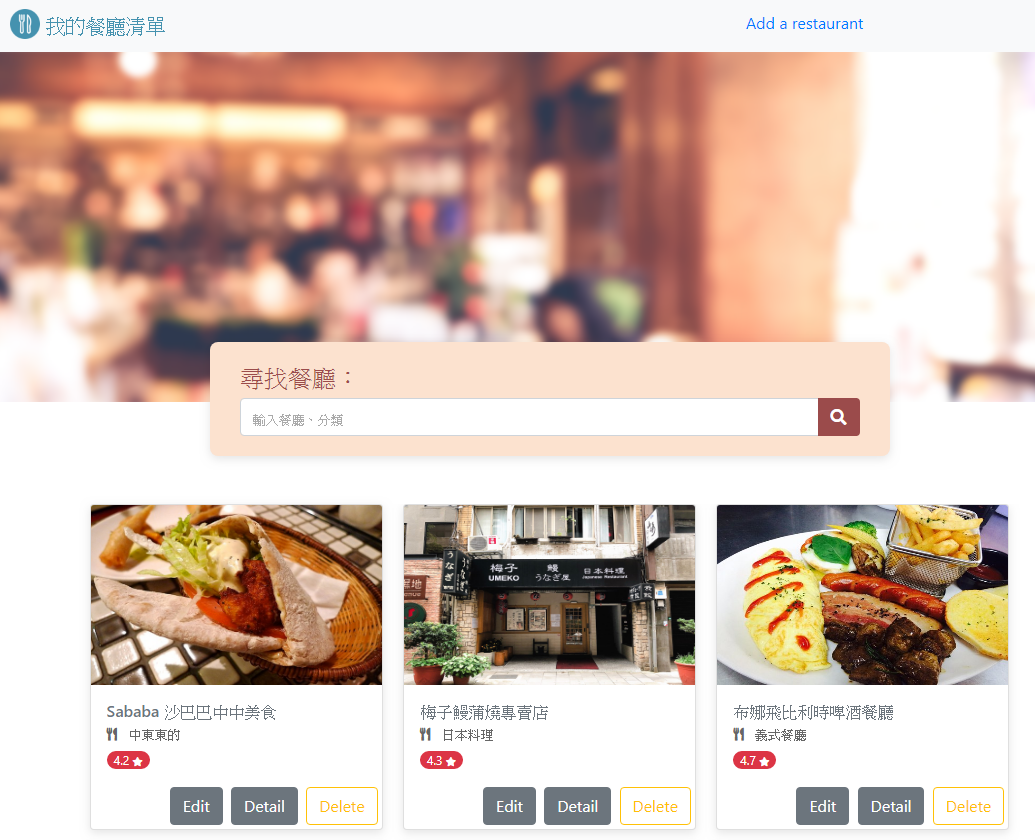
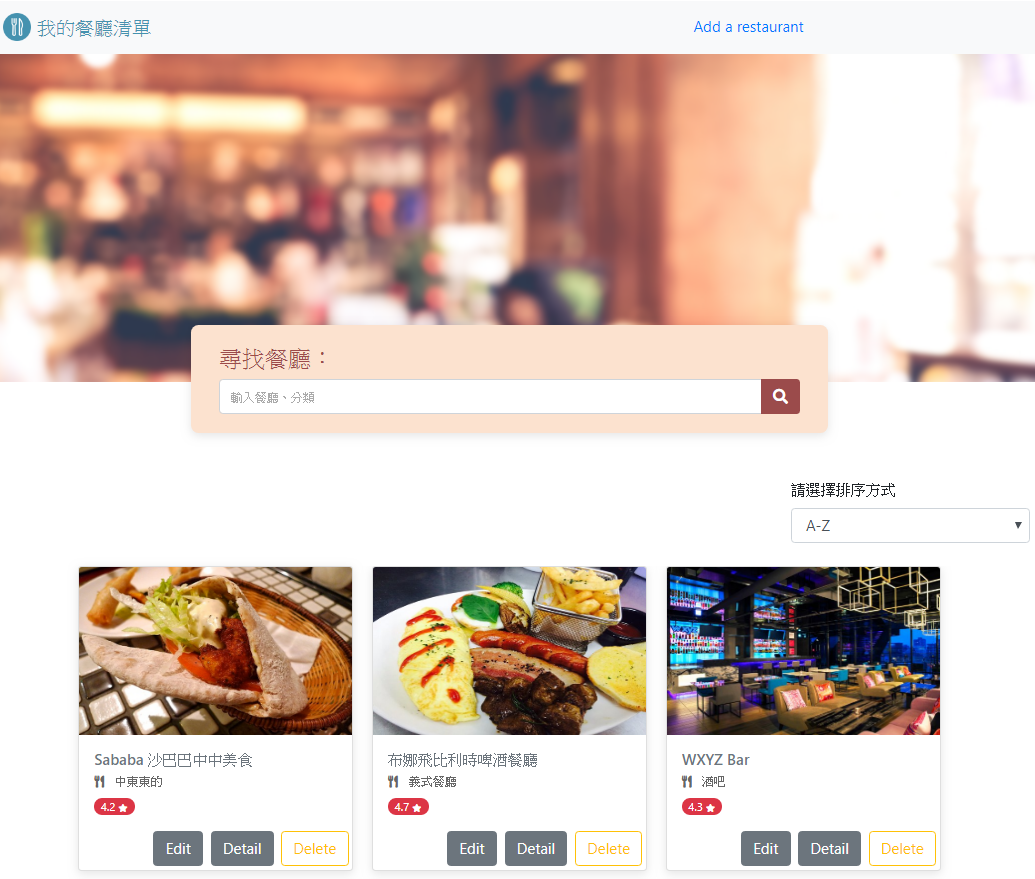
update 'sort feature'

diff --git a/routes/search.js b/routes/search.js
@@ -3,15 +3,45 @@ const router = express.Router()
 const Restaurant = require('../models/restaurant.js')
 
 router.get('/', (req, res) => {
-    Restaurant.find((err, allRestaurants) => {
-        let searchRestaurant = allRestaurants.filter((restaurant) => {
-            if (restaurant.name.toLowerCase().includes(req.query.keyword.toLowerCase()) || restaurant.category.toLowerCase().includes(req.query.keyword.toLowerCase()))
-            return true
+    let sort = {}
+    let sortSetting = {}
+    // 判斷是哪種排序方式
+    if (req.body.sort === 'name-asc') {
+        sort.asc = true
+        sortSetting.name = 'asc'
+    } else if (req.body.sort === 'name-desc') {
+        sort.desc = true
+        sortSetting.name = 'desc'
+    } else if (req.body.sort === 'location') {
+        sort.location = true
+        sortSetting.location = 'asc'
+    } else if (req.body.sort === 'category') {
+        sort.category = true
+        sortSetting.category = 'asc'
+    } else if (req.body.sort === 'rating-asc') {
+        sort.rating = true
+        sortSetting.rating = 'asc'
+    } else if (req.body.sort === 'rating-desc') {
+        sort.rating = true
+        sortSetting.rating = 'desc'
+    }
+    
+    // 依據不同的排序方式，至資料庫索取排序後的資料，接著比對哪幾筆資料與使用者搜尋的關鍵字符合
+    let searchRestaurant = []
+    Restaurant.find({})
+    .sort(sortSetting)
+    .exec((err, allRestaurants) => {
+        if (err) return console.error(err)
+        searchRestaurant = allRestaurants.filter((restaurant) => {
+            if (restaurant.name.toLowerCase().includes(req.query.keyword.toLowerCase()) || restaurant.category.toLowerCase().includes(req.query.keyword.toLowerCase())) {
+                return true
+            }
         })
         res.render('index', {
             restaurant: searchRestaurant,
             css: 'index.css',
-            value: req.query.keyword
+            value: req.query.keyword,
+            sort: sort
         })
     })
 })

diff --git a/routes/restaurants.js b/routes/restaurants.js
@@ -13,28 +13,32 @@ router.get('/', (req,res) => [
     })
 ])
 
+// POST將排序方式傳進來
 router.post('/sort', (req,res) => {
     let sort = {}
     let sortSetting = {}
-    if (req.body.sort === 'asc') {
+    // 判斷是哪種排序方式
+    if (req.body.sort === 'name-asc') {
         sort.asc = true
         sortSetting.name = 'asc'
-        console.log(111)
-    } else if (req.body.sort === 'desc') {
+    } else if (req.body.sort === 'name-desc') {
         sort.desc = true
         sortSetting.name = 'desc'
-        console.log(222)
     } else if (req.body.sort === 'location') {
         sort.location = true
         sortSetting.location = 'asc'
-        console.log(333)
     } else if (req.body.sort === 'category') {
         sort.category = true
         sortSetting.category = 'asc'
-        console.log(444)
+    } else if (req.body.sort === 'rating-asc') {
+        sort.rating = true
+        sortSetting.rating = 'asc'
+    } else if (req.body.sort === 'rating-desc') {
+        sort.rating = true
+        sortSetting.rating = 'desc'
     }
-    console.log(sortSetting)
-    console.log(sort)
+
+    // 依據不同的排序方式，至資料庫索取排序後的資料
     Restaurant.find({})
         .sort(sortSetting)
         .exec((err, allRestaurants) => {

diff --git a/README.md b/README.md
@@ -17,18 +17,19 @@
 
 使用者可於搜尋欄輸入中英文，查詢與店家名稱匹配之店家
 
-4. 可於首頁及詳細店家介紹頁面進行刪除
-5. 可於首頁及詳細店家介紹頁面進行編輯
-6. 可於畫面右上角點擊Add a restaurant進行新增
+4. 使用者可刪除店家(首頁及詳細店家介紹頁面)
+5. 使用者可編輯店家(首頁及詳細店家介紹頁面)
+6. 使用者可新增店家(點擊右上角Add a restaurant)
+7. 餐廳列表可依據不同方式排序
 
 ## 開始使用
 1. 下載本專案檔案至本地端
 ```
-git clone https://github.com/surferintaiwan/Semester3-A10-restaurant-list-try-CRUD.git
+git clone https://github.com/surferintaiwan/Semester3-A11-restaurant-list-try-RESTful.git
 ```
 2. 於終端機打開專案檔案
 ```
-cd Semester3-A10-restaurant-list-try-CRUD
+cd Semester3-A11-restaurant-list-try-RESTful
 ```
 3. 於終端機安裝npm
 
@@ -64,6 +65,7 @@ nodemon app.js
 * bootstrap > 5.11.2
 * popper
 * mongoose
+* method-override
 
 ## 專案貢獻者
 [Shawn](https://github.com/surferintaiwan)
